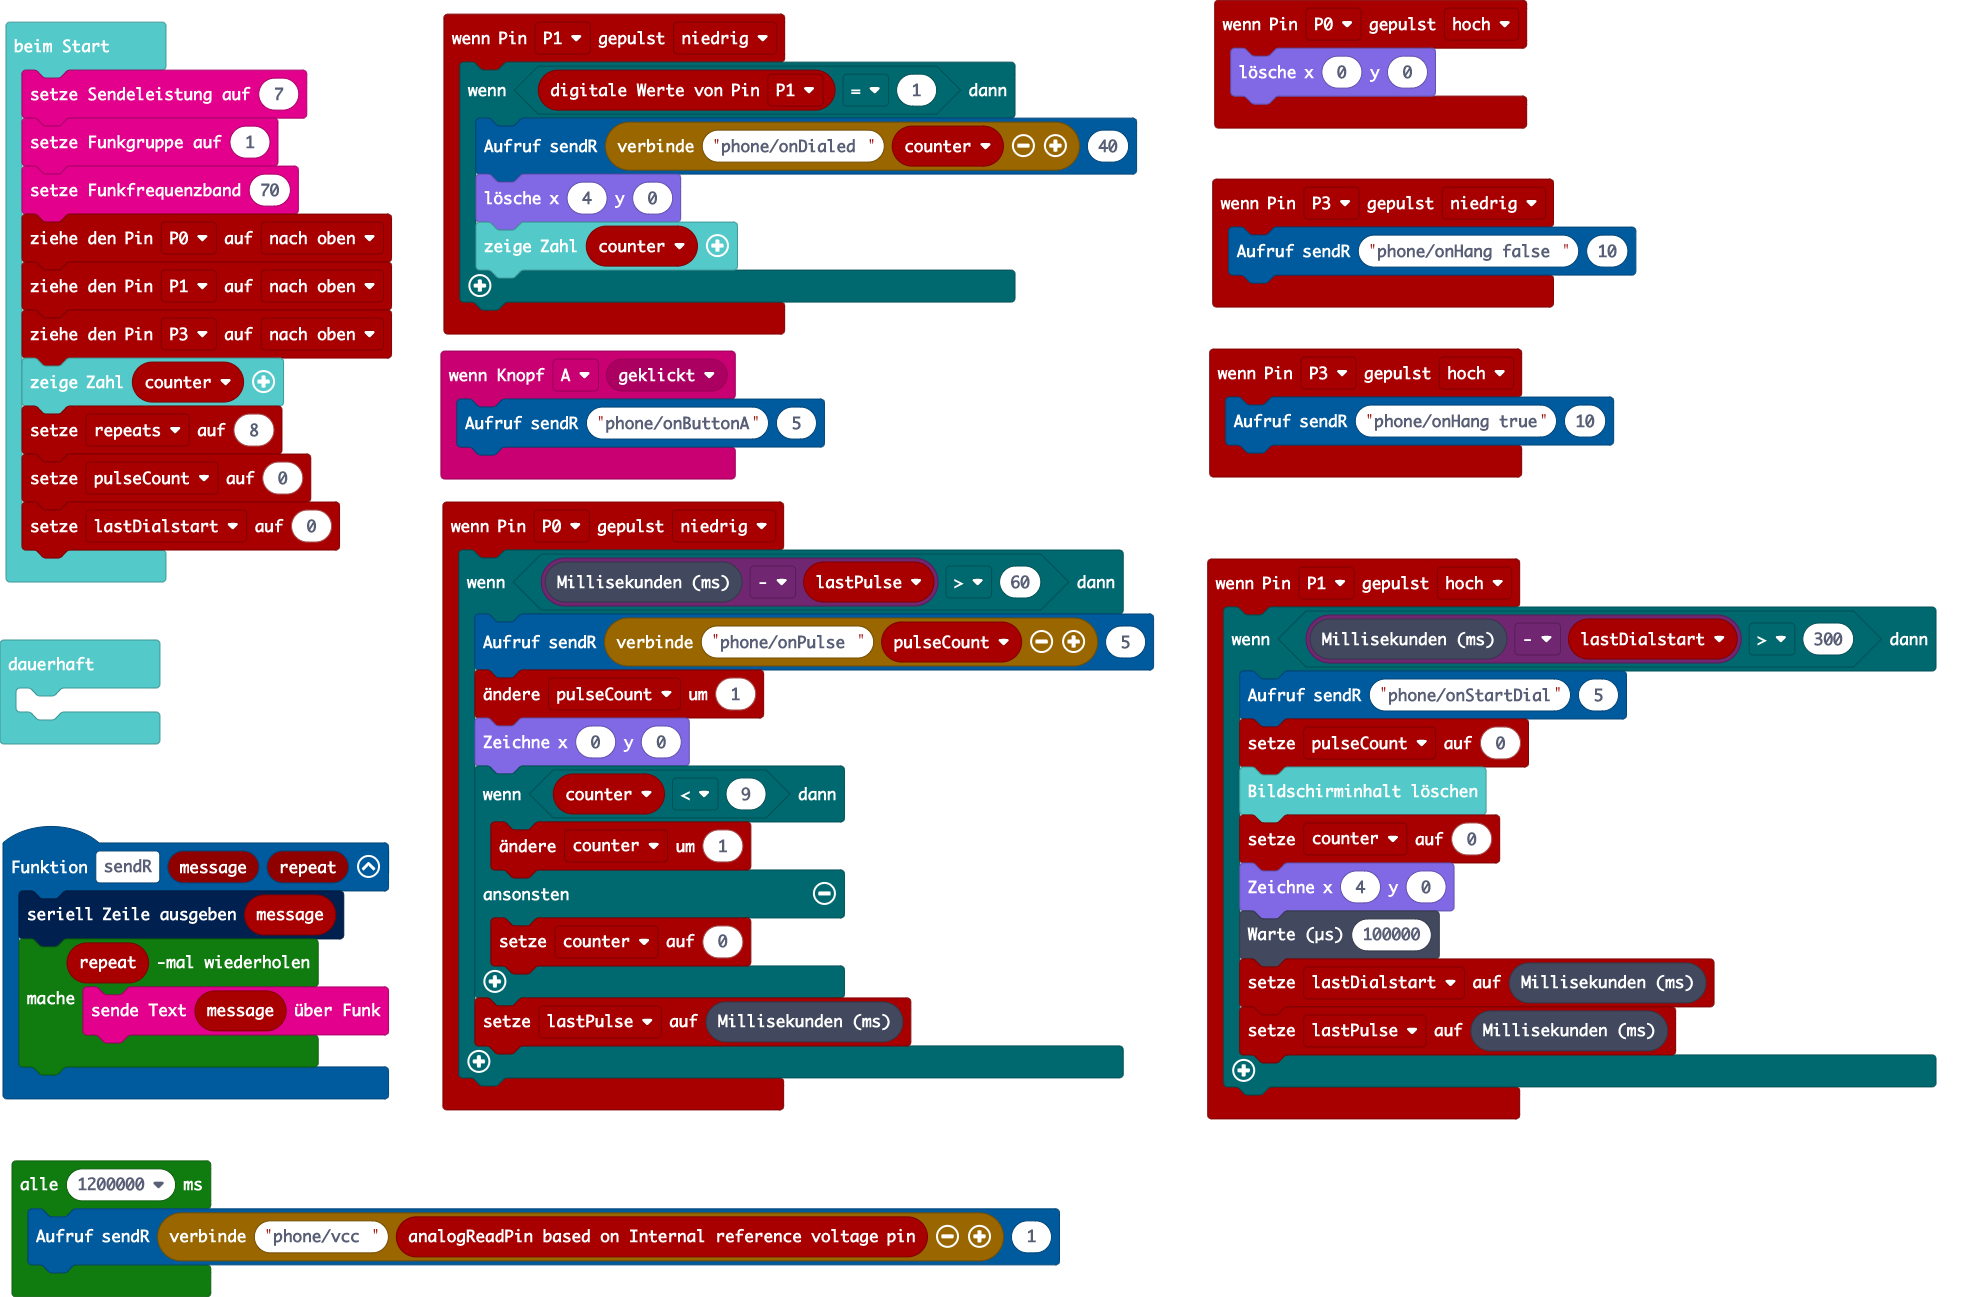
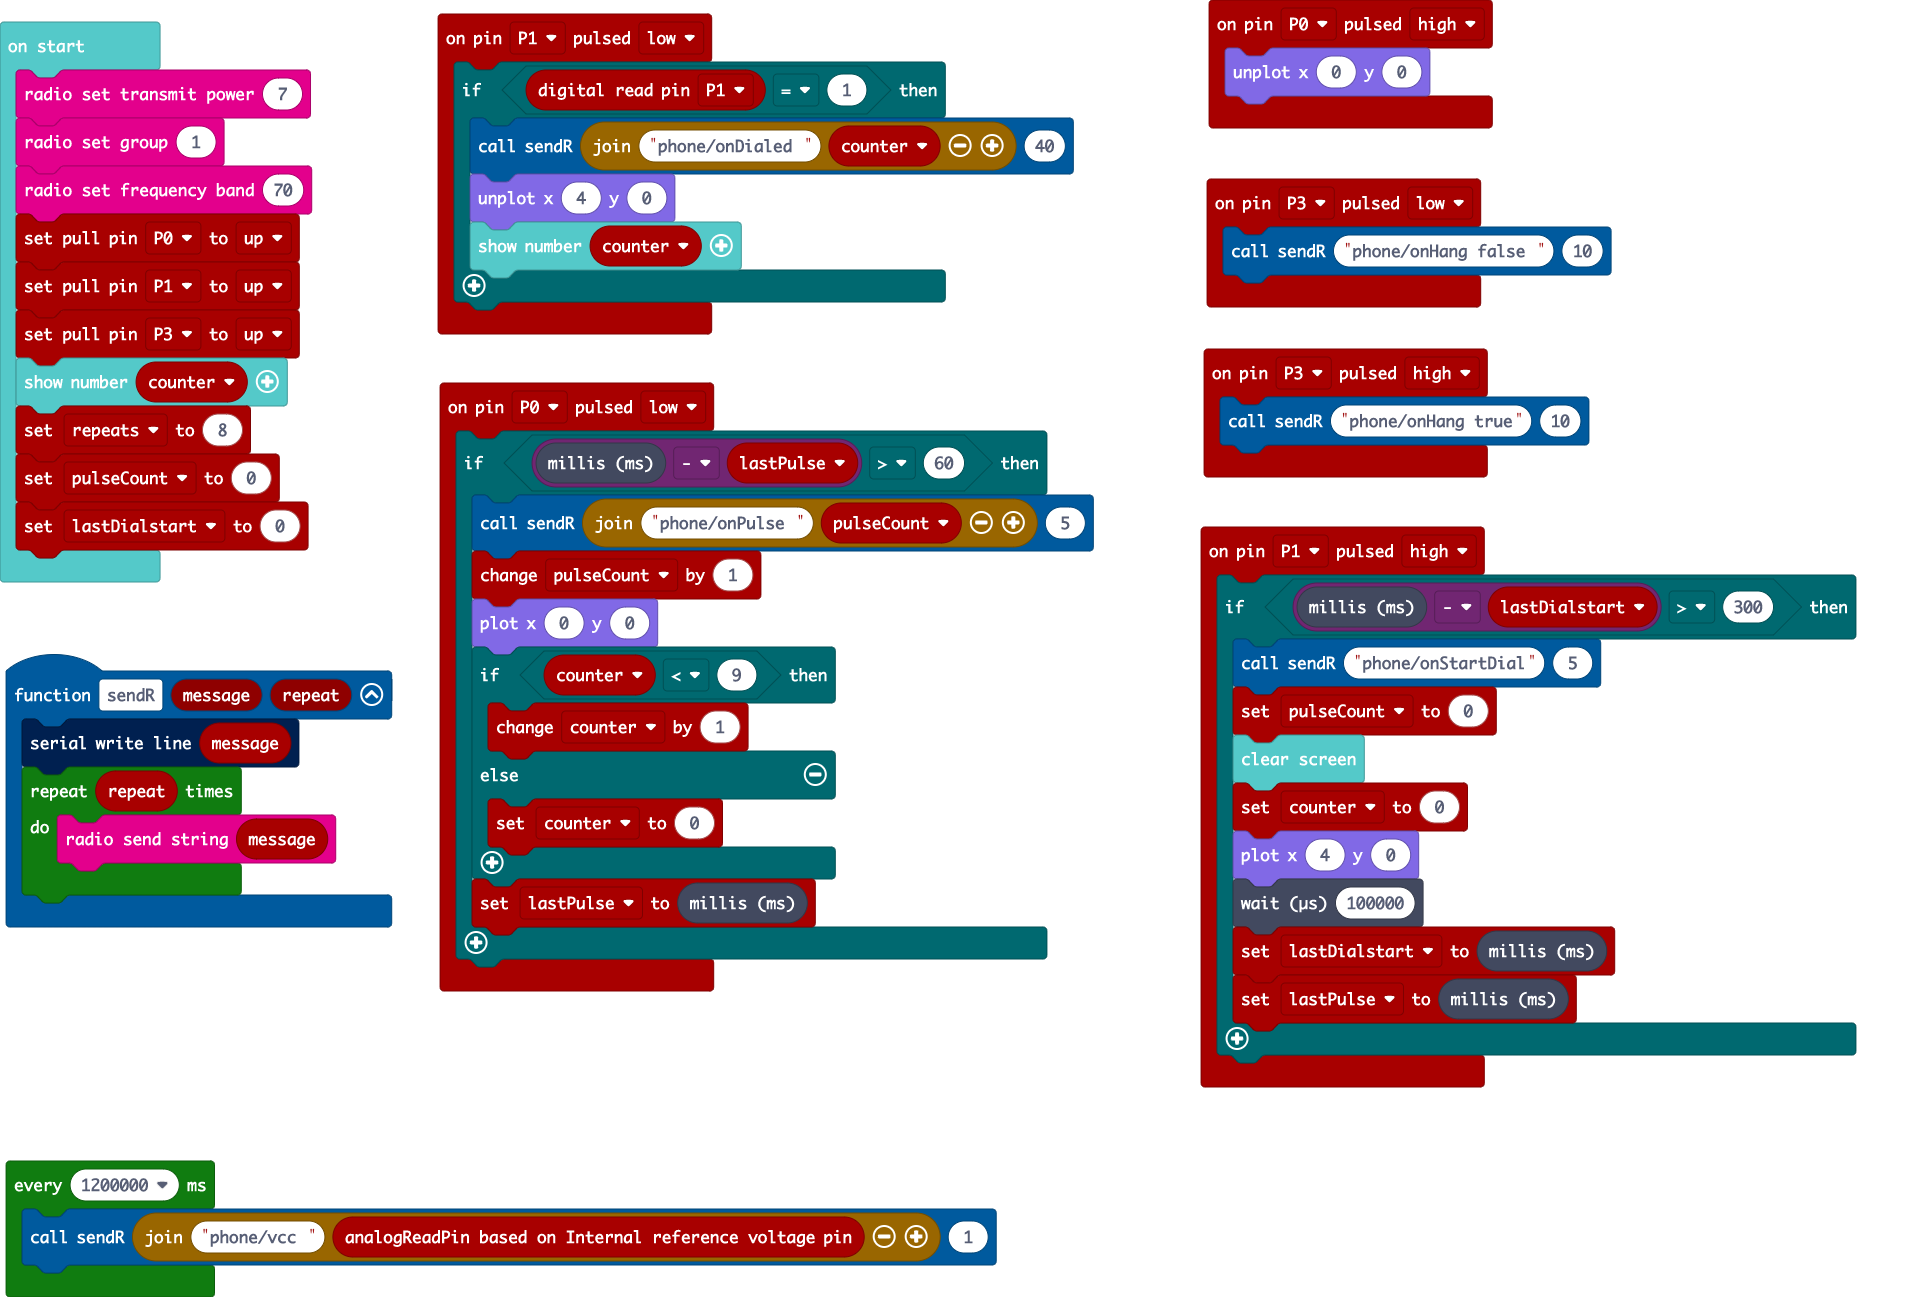
Clean up a little

diff --git a/main.ts b/main.ts
@@ -1,43 +1,6 @@
 enum RadioMessage {
     message1 = 49434
 }
-input.onButtonEvent(Button.A, ButtonEvent.Click, function () {
-    sendR("phone/onButtonA", 5)
-})
-pins.onPulsed(DigitalPin.P1, PulseValue.Low, function () {
-    if (pins.digitalReadPin(DigitalPin.P1) == 1) {
-        sendR("phone/onDialed " + counter, 40)
-        led.unplot(4, 0)
-        basic.showNumber(counter)
-    }
-})
-function sendR (message: string, repeat: number) {
-    serial.writeLine(message)
-    for (let index = 0; index < repeat; index++) {
-        radio.sendString(message)
-    }
-}
-pins.onPulsed(DigitalPin.P3, PulseValue.Low, function () {
-    sendR("phone/onHang false ", 10)
-})
-pins.onPulsed(DigitalPin.P1, PulseValue.High, function () {
-    if (control.millis() - lastDialstart > 300) {
-        sendR("phone/onStartDial", 5)
-        pulseCount = 0
-        basic.clearScreen()
-        counter = 0
-        led.plot(4, 0)
-        control.waitMicros(100000)
-        lastDialstart = control.millis()
-        lastPulse = control.millis()
-    }
-})
-pins.onPulsed(DigitalPin.P3, PulseValue.High, function () {
-    sendR("phone/onHang true", 10)
-})
-pins.onPulsed(DigitalPin.P0, PulseValue.High, function () {
-    led.unplot(0, 0)
-})
 pins.onPulsed(DigitalPin.P0, PulseValue.Low, function () {
     if (control.millis() - lastPulse > 60) {
         sendR("phone/onPulse " + pulseCount, 5)
@@ -50,6 +13,40 @@ pins.onPulsed(DigitalPin.P0, PulseValue.Low, function () {
         }
         lastPulse = control.millis()
     }
+})
+function sendR (message: string, repeat: number) {
+    serial.writeLine(message)
+    for (let index = 0; index < repeat; index++) {
+        radio.sendString(message)
+    }
+}
+pins.onPulsed(DigitalPin.P1, PulseValue.High, function () {
+    if (control.millis() - lastDialstart > 300) {
+        sendR("phone/onStartDial", 5)
+        pulseCount = 0
+        basic.clearScreen()
+        counter = 0
+        led.plot(4, 0)
+        control.waitMicros(100000)
+        lastDialstart = control.millis()
+        lastPulse = control.millis()
+    }
+})
+pins.onPulsed(DigitalPin.P3, PulseValue.Low, function () {
+    sendR("phone/onHang false ", 10)
+})
+pins.onPulsed(DigitalPin.P1, PulseValue.Low, function () {
+    if (pins.digitalReadPin(DigitalPin.P1) == 1) {
+        sendR("phone/onDialed " + counter, 40)
+        led.unplot(4, 0)
+        basic.showNumber(counter)
+    }
+})
+pins.onPulsed(DigitalPin.P0, PulseValue.High, function () {
+    led.unplot(0, 0)
+})
+pins.onPulsed(DigitalPin.P3, PulseValue.High, function () {
+    sendR("phone/onHang true", 10)
 })
 let lastPulse = 0
 let lastDialstart = 0
@@ -65,9 +62,6 @@ basic.showNumber(counter)
 let repeats = 8
 pulseCount = 0
 lastDialstart = 0
-basic.forever(function () {
-	
-})
 loops.everyInterval(1200000, function () {
     sendR("phone/vcc " + pins.analogReadPinInternalRef(), 1)
 })
